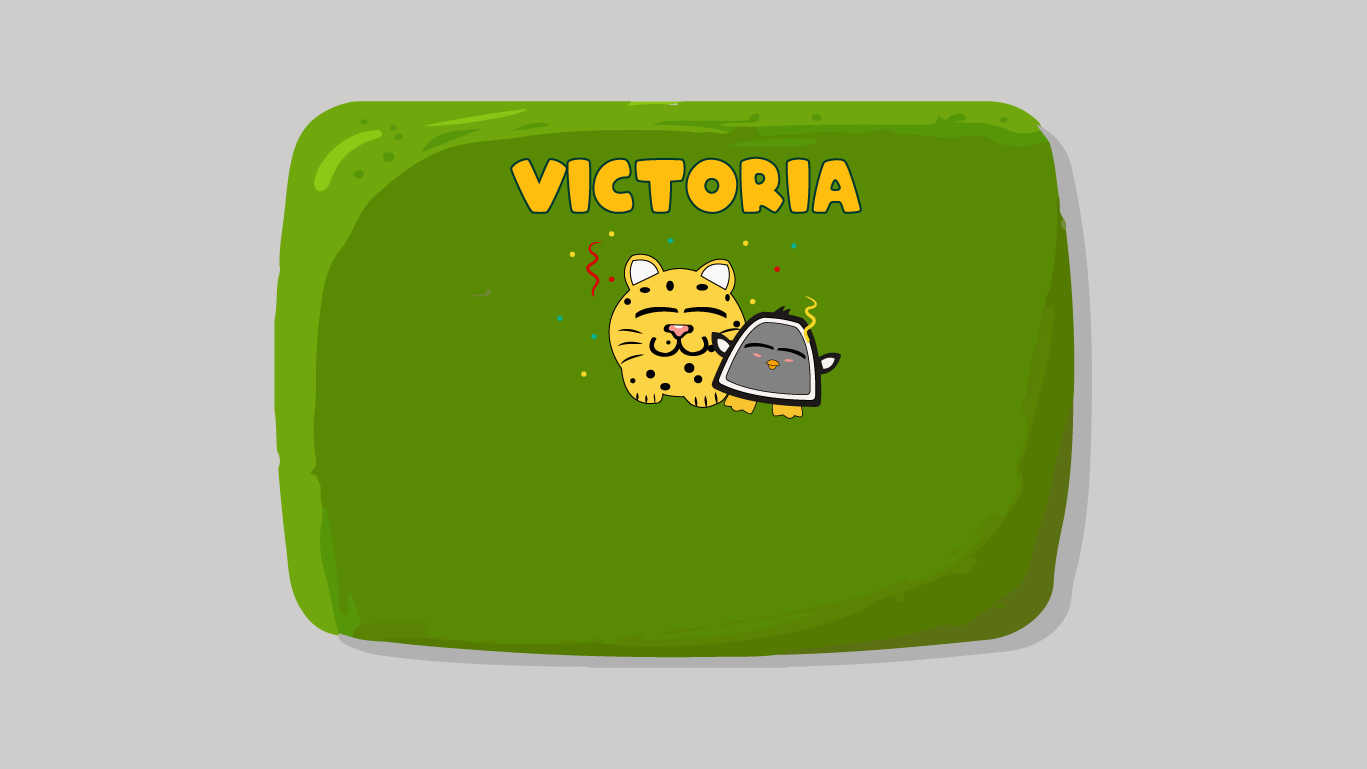
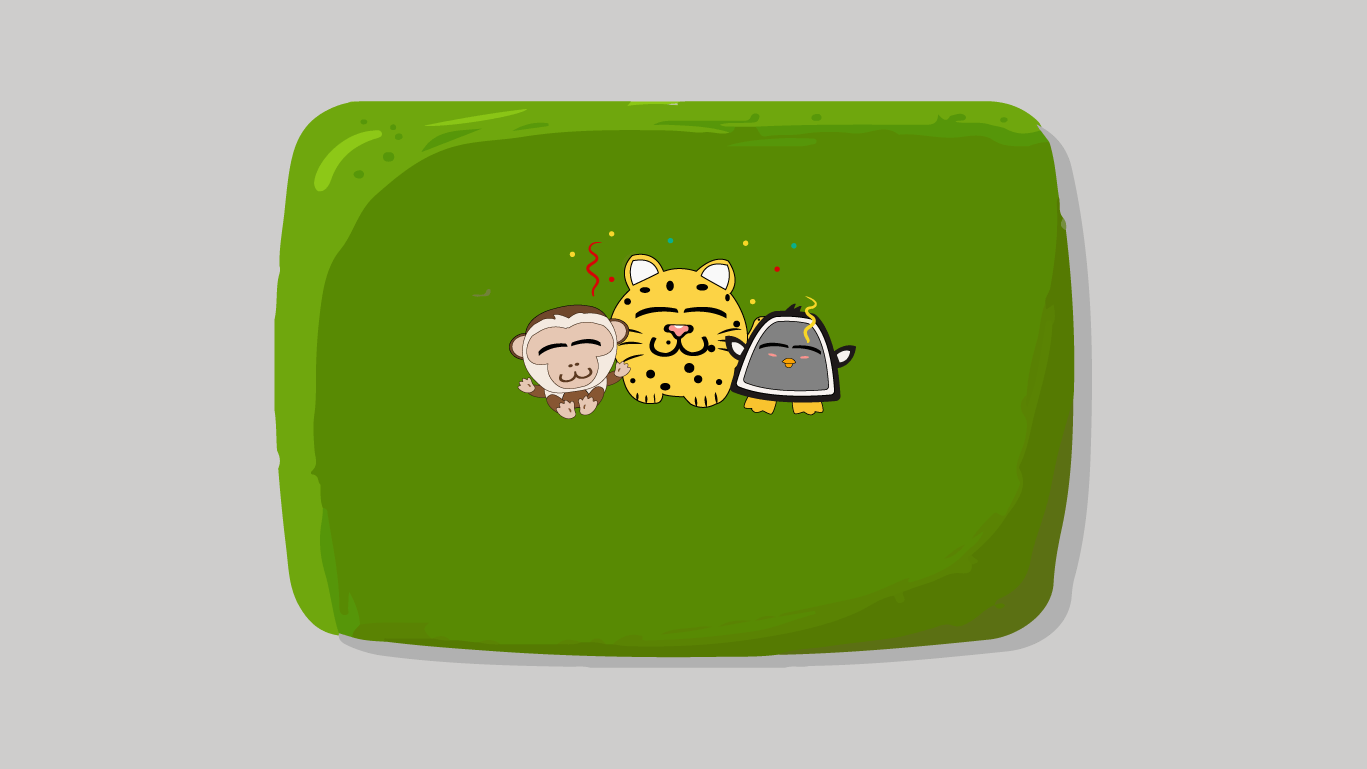
AssetsNivel3

Changed region(s): [[0.3687, 0.1873, 0.6452, 0.2809], [0.5223, 0.4057, 0.6452, 0.5618], [0.3687, 0.3745, 0.4609, 0.5618]]

diff --git a/src/scenes/nivel2/gameOver.ts b/src/scenes/nivel2/gameOver.ts
@@ -7,7 +7,7 @@ export default class gameOverMono extends Phaser.Scene{
   }
 
   preload(){
-    this.load.image('loseMono', 'assets/GameWinLose/losePinguino.png');
+    this.load.image('loseMono', 'assets/GameWinLose/loseMono.png');
   }
   
   create(){
